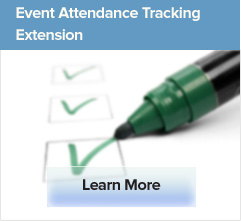
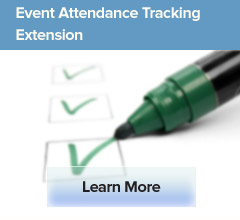
Adjusted styles of Board Management Upgrades sidebar to match new admin design.

diff --git a/css/custom.css b/css/custom.css
@@ -126,7 +126,14 @@ body .ui-datepicker-calendar .ui-state-active {
   background-position: -492px -5px;  
 }
 .winbm-ext-sidebar {
-  width: 241px;
+  width: 240px;
+  padding: 10px 0;
+  border: 1px solid #999;
+  background-color: rgb( 255, 255, 255 );
+  background-color: rgba( 255, 255, 255, .3 );
+  -webkit-border-radius: 4px;
+     -moz-border-radius: 4px;
+          border-radius: 4px;
 }
 .winbm-ext-sidebar .upgrade-heading {
   margin-bottom: 18px;

diff --git a/nonprofit-board-management.php b/nonprofit-board-management.php
@@ -713,18 +713,18 @@ class WI_Board_Management {
       ?>
       <div class="postbox-container winbm-ext-sidebar">    
         
-        <img class="upgrade-heading" src="<?php echo BOARD_MANAGEMENT_PLUGINFULLURL; ?>images/board-management-upgrades.png" width="241" height="50" />
+        <img class="upgrade-heading" src="<?php echo BOARD_MANAGEMENT_PLUGINFULLURL; ?>images/board-management-upgrades.png" width="240" height="50" />
         
         <?php do_action( 'winbm_at_sidebar_early' ); ?>
         
         <a class="ext event-emails" href="http://wiredimpact.com/premium-plugins/event-rsvp-reminder-emails/?utm_source=wordpress_admin&utm_medium=sidebar&utm_campaign=nonprofit_board_management" target="_blank">
-          <img src="<?php echo BOARD_MANAGEMENT_PLUGINFULLURL; ?>images/event-emails-extension.jpg" width="241" height="221" />
+          <img src="<?php echo BOARD_MANAGEMENT_PLUGINFULLURL; ?>images/event-emails-extension.jpg" width="240" height="220" />
         </a>
         <a class="ext" href="http://wiredimpact.com/premium-plugins/event-attendance-tracking/?utm_source=wordpress_admin&utm_medium=sidebar&utm_campaign=nonprofit_board_management" target="_blank">
-          <img src="<?php echo BOARD_MANAGEMENT_PLUGINFULLURL; ?>images/event-attendance-extension.jpg" width="241" height="221" />
+          <img src="<?php echo BOARD_MANAGEMENT_PLUGINFULLURL; ?>images/event-attendance-extension.jpg" width="240" height="220" />
         </a>
         <a class="ext wi" href="http://wiredimpact.com?utm_source=wordpress_admin&utm_medium=sidebar&utm_campaign=nonprofit_board_management" target="_blank">
-          <img src="<?php echo BOARD_MANAGEMENT_PLUGINFULLURL; ?>images/plugins-wired-impact.png" width="241" height="74" />
+          <img src="<?php echo BOARD_MANAGEMENT_PLUGINFULLURL; ?>images/plugins-wired-impact.png" width="240" height="74" />
         </a>
         
         <?php do_action( 'winbm_at_sidebar_end' ); ?>
